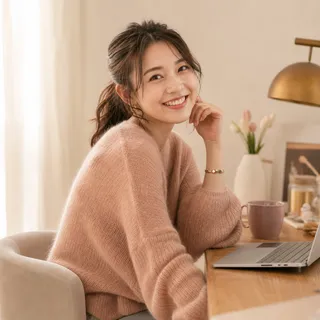
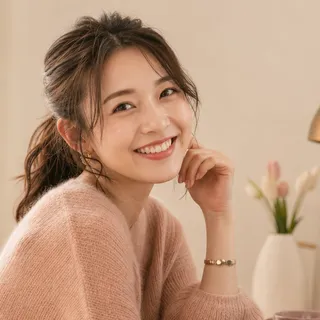
Fix visual balance issues across sections
- Final CTA gradient starts opaque so its rounded curve reads as a
  clean pink edge against the dark instructor section (was muddy
  translucent mauve)
- Concept heading container widened to max-w-4xl so the headline
  settles into three balanced lines on desktop
- Re-crop student avatar around the face for the 64px circle

diff --git a/src/pages/Home.tsx b/src/pages/Home.tsx
@@ -327,7 +327,7 @@ export default function Home() {
       {/* S3: Concept Section */}
       <section className="py-16 md:py-24 bg-ivory">
         <div className="container">
-          <motion.div {...fadeInUp} className="max-w-3xl mx-auto text-center">
+          <motion.div {...fadeInUp} className="max-w-4xl mx-auto text-center">
             <p className="section-label mb-6">Our Concept</p>
             <h2 className="text-xl md:text-3xl lg:text-4xl text-warm-brown font-medium mb-10">
               <span className="block mb-1 md:mb-2 lg:mb-4">会社に縛られず、</span>
@@ -911,7 +911,7 @@ export default function Home() {
       </section>
 
       {/* CTA Section */}
-      <section className="relative z-10 -mt-8 rounded-t-[2.5rem] md:rounded-t-[4rem] py-16 md:py-24 bg-gradient-to-b from-dusty-pink-light/60 to-ivory">
+      <section className="relative z-10 -mt-8 rounded-t-[2.5rem] md:rounded-t-[4rem] py-16 md:py-24 bg-gradient-to-b from-dusty-pink-light to-ivory">
         <div className="container">
           <motion.div {...fadeInUp} className="text-center max-w-3xl mx-auto">
             <p className="section-label mb-4">Start Your Journey</p>
